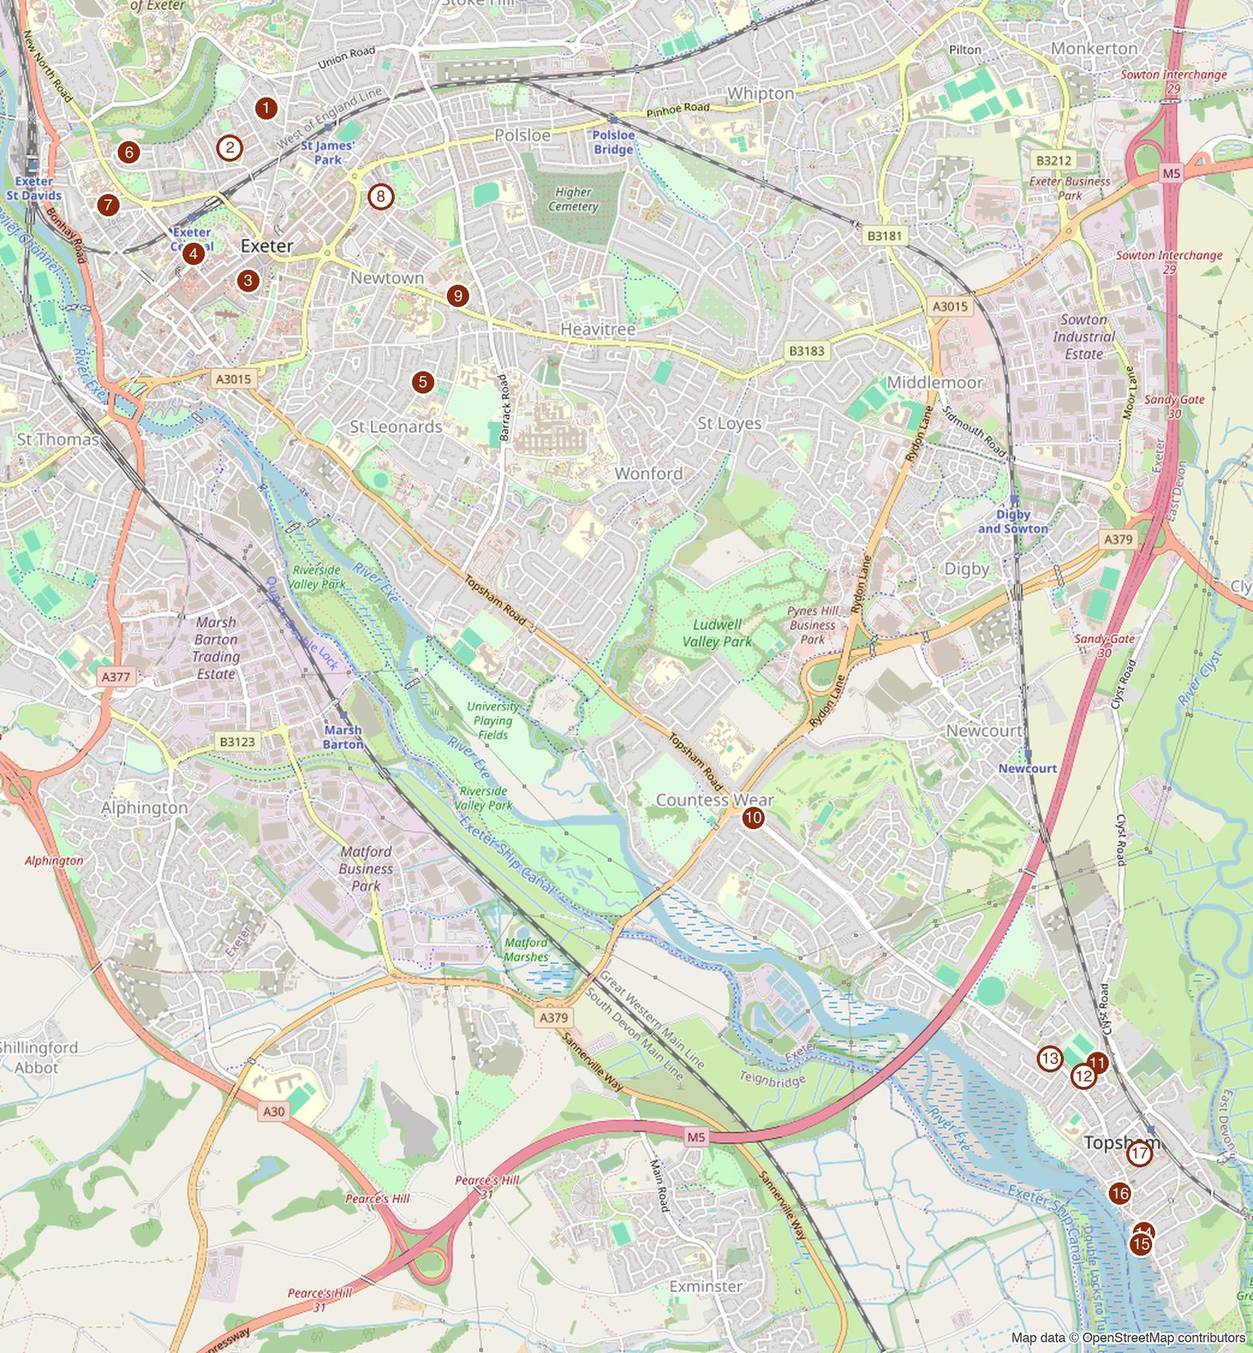
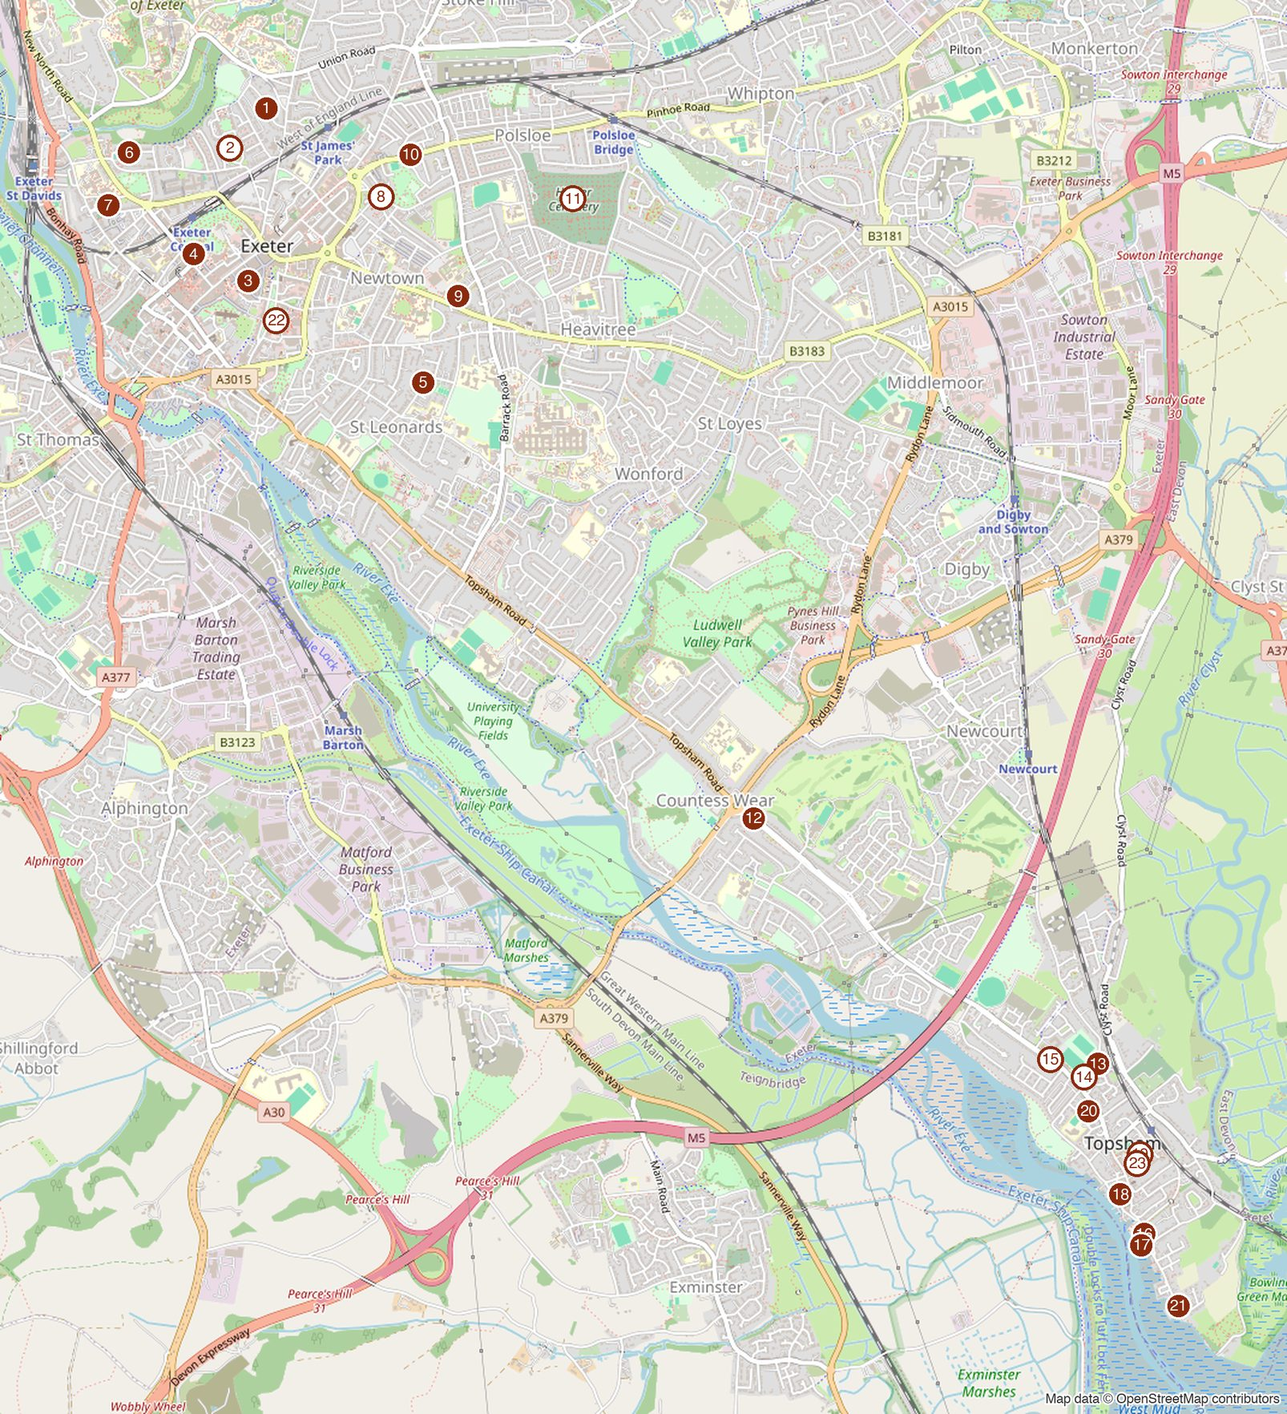
Map: make all places public; add Exeter Benefit Building Society and Topsham First School

diff --git a/quartz/static/maps/exeter-topsham.html b/quartz/static/maps/exeter-topsham.html
@@ -9,7 +9,7 @@
 .leaflet-popup-content{font-size:14px;line-height:1.4}.leaflet-popup-content h3{margin:0 0 4px;font-size:15px}
 .leaflet-popup-content .when{color:#666;font-size:12px;margin-bottom:6px}.leaflet-popup-content a{color:#8a2b0e}</style>
 </head><body><div id="map"></div><script>
-const places = [{"n": 1, "lat": 50.7318, "lon": -3.5269, "approx": false, "name": "Tresillian, West Avenue", "area": "Exeter", "years": "1899–c.1950", "text": "The Silver family home: Clifford and Gladys brought up their children here. Shot up in the Exeter Blitz, May 1942, and still standing.", "links": "<a href=\"../../Clifford-Marking-Silver/#tresillian\" target=\"_top\">Clifford Marking Silver</a> · <a href=\"../../David-Silver/#tresillian-and-the-exeter-blitz\" target=\"_top\">David Silver</a>"}, {"n": 2, "lat": 50.73, "lon": -3.5295, "approx": true, "name": "Higher Barracks", "area": "Exeter", "years": "1942", "text": "\"Part of the barracks, full of the army, about 300 yards away from our house\" was destroyed in an air raid David watched as a warden in 1942.", "links": "<a href=\"../../WWII-Interview\" target=\"_top\">David's WWII tape</a>"}, {"n": 3, "lat": 50.724, "lon": -3.5282, "approx": false, "name": "Bedford Circus", "area": "Exeter", "years": "c.1906–1942", "text": "Clifford's dental surgery stood here \"until 1942\". The Georgian circus was gutted in the Blitz and later demolished; Princesshay now covers the site.", "links": "<a href=\"../../Clifford-Marking-Silver/#the-dental-practice\" target=\"_top\">Clifford Marking Silver</a>"}, {"n": 4, "lat": 50.7252, "lon": -3.5321, "approx": false, "name": "Exeter School of Art (Royal Albert Memorial Museum building)", "area": "Exeter", "years": "1942–43", "text": "David spent about two terms at the Exeter School of Art before joining the RAF.", "links": "<a href=\"../../David-Silver/#exeter-and-the-war\" target=\"_top\">David Silver</a>"}, {"n": 5, "lat": 50.7194, "lon": -3.5157, "approx": false, "name": "Mona Lodge, Lyndhurst Road", "area": "Exeter (St Leonards)", "years": "c.1900–1921", "text": "Rupert Philip Acott's house, with lions on the gateposts, and Gladys's childhood home. Muriel Acott was married from here. Still standing.", "links": "<a href=\"../../Acott-Family/#rupert-philip-acott-18531941-and-charlotte-rowell\" target=\"_top\">The Acott Family</a> · <a href=\"../../Gladys-Silver/\" target=\"_top\">Gladys Silver</a>"}, {"n": 6, "lat": 50.7298, "lon": -3.5367, "approx": false, "name": "Velwell Road, St David's", "area": "Exeter", "years": "c.1951–1960s", "text": "Clifford and Gladys's home after Tresillian. David saved the family photographs from here \"when my mother died\".", "links": "<a href=\"../../Clifford-Marking-Silver/\" target=\"_top\">Clifford Marking Silver</a> · <a href=\"../../Bristol-Letters\" target=\"_top\">Letters from Bristol</a>"}, {"n": 7, "lat": 50.7274, "lon": -3.5382, "approx": false, "name": "St David's Church", "area": "Exeter", "years": "1952", "text": "David Silver and Anthea Leigh were married in a side chapel here at the end of December 1952, with James as best man.", "links": "<a href=\"../../Bristol-Letters\" target=\"_top\">Letters from Bristol</a> · <a href=\"../../David-Silver/\" target=\"_top\">David Silver</a> · <a href=\"../../Anthea-Silver/\" target=\"_top\">Anthea Silver</a>"}, {"n": 8, "lat": 50.7278, "lon": -3.5187, "approx": true, "name": "The Belmont Nursing Home", "area": "Exeter", "years": "1925, 1928", "text": "Anthea Leigh was born here on 30 April 1928, in \"a beautiful Georgian terrace in Exeter, later destroyed in the blitz\". Position approximate.", "links": "<a href=\"../../A-Topsham-Childhood\" target=\"_top\">A Topsham Childhood</a>"}, {"n": 9, "lat": 50.7233, "lon": -3.5132, "approx": false, "name": "Endsleigh School, Grendon Road", "area": "Exeter", "years": "c.1937–1939", "text": "\"A girls only day school on the corner of Grendon Road\", where Anthea and her sister Mary went until the daylight raids on Exeter.", "links": "<a href=\"../../A-Topsham-Childhood\" target=\"_top\">A Topsham Childhood</a>"}, {"n": 10, "lat": 50.6997, "lon": -3.4921, "approx": false, "name": "Sundew and the garage, Countess Wear", "area": "Countess Wear", "years": "c.1924–1930", "text": "Tom and Edith Leigh's bungalow and garage on the Countess Wear crossroads, where Anthea was brought home as a baby.", "links": "<a href=\"../../A-Topsham-Childhood\" target=\"_top\">A Topsham Childhood</a>"}, {"n": 11, "lat": 50.6886, "lon": -3.4675, "approx": false, "name": "Denver House and Denver Nurseries, Denver Road", "area": "Topsham", "years": "c.1901–1940s", "text": "Thomas Bolt Pyne's house and fruit-tree nursery, employing about thirty men: Anthea's grandparents' home, \"big, comfortable and secure\".", "links": "<a href=\"../../A-Topsham-Childhood\" target=\"_top\">A Topsham Childhood</a>"}, {"n": 12, "lat": 50.688, "lon": -3.4685, "approx": true, "name": "Meadow Hayes", "area": "Topsham", "years": "1935–1946", "text": "Anthea's childhood home, in the meadow opposite Denver Nurseries, until the family left in 1946. \"I still dream about Meadow Hayes.\"", "links": "<a href=\"../../A-Topsham-Childhood\" target=\"_top\">A Topsham Childhood</a>"}, {"n": 13, "lat": 50.6888, "lon": -3.4709, "approx": true, "name": "Park Field, by the Exeter Road", "area": "Topsham", "years": "1934–35", "text": "A sewer trench cut through Park Field, opposite the Pyne nurseries, turned up Romano-British pottery, coins and glass.", "links": "<a href=\"../../Denver-Excavation\" target=\"_top\">Romano-British Antiquities</a>"}, {"n": 14, "lat": 50.6809, "lon": -3.4642, "approx": false, "name": "\"Doone\", Monmouth Hill", "area": "Topsham", "years": "c.1932–1935", "text": "The Leighs' semi-detached house with a long front garden, where Anthea's sister Gillian was born.", "links": "<a href=\"../../A-Topsham-Childhood\" target=\"_top\">A Topsham Childhood</a>"}, {"n": 15, "lat": 50.6804, "lon": -3.4644, "approx": false, "name": "The Strand", "area": "Topsham", "years": "1930s", "text": "Anthea's father worked at Mr Seldon's garage on the Strand, and her godmother Peggy Dolling lived here.", "links": "<a href=\"../../A-Topsham-Childhood\" target=\"_top\">A Topsham Childhood</a>"}, {"n": 16, "lat": 50.6827, "lon": -3.4659, "approx": false, "name": "St Margaret's Church", "area": "Topsham", "years": "1930s–40s", "text": "\"The church was the centre of the community\": Anthea sang in the choir here for years.", "links": "<a href=\"../../A-Topsham-Childhood\" target=\"_top\">A Topsham Childhood</a>"}, {"n": 17, "lat": 50.6845, "lon": -3.4645, "approx": true, "name": "Rosapenna", "area": "Topsham", "years": "1921–1941", "text": "Rupert Philip Acott moved to Rosapenna in Topsham after his wife died, and lived there until his death in 1941. Exact location not yet found.", "links": "<a href=\"../../Acott-Family/#rupert-philip-acott-18531941-and-charlotte-rowell\" target=\"_top\">The Acott Family</a>"}];
+const places = [{"n": 1, "lat": 50.7318, "lon": -3.5269, "approx": false, "name": "Tresillian, West Avenue", "area": "Exeter", "years": "1899–c.1950", "text": "The Silver family home: Clifford and Gladys brought up their children here. Shot up in the Exeter Blitz, May 1942, and still standing.", "links": "<a href=\"../../Clifford-Marking-Silver/#tresillian\" target=\"_top\">Clifford Marking Silver</a> · <a href=\"../../David-Silver/#tresillian-and-the-exeter-blitz\" target=\"_top\">David Silver</a>"}, {"n": 2, "lat": 50.73, "lon": -3.5295, "approx": true, "name": "Higher Barracks", "area": "Exeter", "years": "1942", "text": "\"Part of the barracks, full of the army, about 300 yards away from our house\" was destroyed in an air raid David watched as a warden in 1942.", "links": "<a href=\"../../WWII-Interview\" target=\"_top\">David's WWII tape</a>"}, {"n": 3, "lat": 50.724, "lon": -3.5282, "approx": false, "name": "Bedford Circus", "area": "Exeter", "years": "c.1906–1942", "text": "Clifford's dental surgery stood here \"until 1942\". The Georgian circus was gutted in the Blitz and later demolished; Princesshay now covers the site.", "links": "<a href=\"../../Clifford-Marking-Silver/#the-dental-practice\" target=\"_top\">Clifford Marking Silver</a>"}, {"n": 4, "lat": 50.7252, "lon": -3.5321, "approx": false, "name": "Exeter School of Art (Royal Albert Memorial Museum building)", "area": "Exeter", "years": "1942–43", "text": "David spent about two terms at the Exeter School of Art before joining the RAF.", "links": "<a href=\"../../David-Silver/#exeter-and-the-war\" target=\"_top\">David Silver</a>"}, {"n": 5, "lat": 50.7194, "lon": -3.5157, "approx": false, "name": "Mona Lodge, Lyndhurst Road", "area": "Exeter (St Leonards)", "years": "c.1900–1921", "text": "Rupert Philip Acott's house, with lions on the gateposts, and Gladys's childhood home. Muriel Acott was married from here. Still standing.", "links": "<a href=\"../../Acott-Family/#rupert-philip-acott-18531941-and-charlotte-rowell\" target=\"_top\">The Acott Family</a> · <a href=\"../../Gladys-Silver/\" target=\"_top\">Gladys Silver</a>"}, {"n": 6, "lat": 50.7298, "lon": -3.5367, "approx": false, "name": "Velwell Road, St David's", "area": "Exeter", "years": "c.1951–1960s", "text": "Clifford and Gladys's home after Tresillian. David saved the family photographs from here \"when my mother died\".", "links": "<a href=\"../../Clifford-Marking-Silver/\" target=\"_top\">Clifford Marking Silver</a> · <a href=\"../../Bristol-Letters\" target=\"_top\">Letters from Bristol</a>"}, {"n": 7, "lat": 50.7274, "lon": -3.5382, "approx": false, "name": "St David's Church", "area": "Exeter", "years": "1952", "text": "David Silver and Anthea Leigh were married in a side chapel here at the end of December 1952, with James as best man.", "links": "<a href=\"../../Bristol-Letters\" target=\"_top\">Letters from Bristol</a> · <a href=\"../../David-Silver/\" target=\"_top\">David Silver</a> · <a href=\"../../Anthea-Silver/\" target=\"_top\">Anthea Silver</a>"}, {"n": 8, "lat": 50.7278, "lon": -3.5187, "approx": true, "name": "The Belmont Nursing Home", "area": "Exeter", "years": "1925, 1928", "text": "Anthea Leigh was born here on 30 April 1928, in \"a beautiful Georgian terrace in Exeter, later destroyed in the blitz\". Position approximate.", "links": "<a href=\"../../A-Topsham-Childhood\" target=\"_top\">A Topsham Childhood</a>"}, {"n": 9, "lat": 50.7233, "lon": -3.5132, "approx": false, "name": "Endsleigh School, Grendon Road", "area": "Exeter", "years": "c.1937–1939", "text": "\"A girls only day school on the corner of Grendon Road\", where Anthea and her sister Mary went until the daylight raids on Exeter.", "links": "<a href=\"../../A-Topsham-Childhood\" target=\"_top\">A Topsham Childhood</a>"}, {"n": 10, "lat": 50.7297, "lon": -3.5166, "approx": false, "name": "Alexandra Terrace, Blackboy Road", "area": "Exeter", "years": "1960", "text": "Anthea wrote to David from Alexandra Terrace in July 1960, with Tamsin, Bridget and Candy at home.", "links": ""}, {"n": 11, "lat": 50.7277, "lon": -3.505, "approx": true, "name": "Exeter Higher Cemetery", "area": "Exeter", "years": "1921?", "text": "David believed his grandmother Charlotte Acott was \"buried in Exeter Cemetery\". Which cemetery isn't certain. Position approximate.", "links": ""}, {"n": 12, "lat": 50.6997, "lon": -3.4921, "approx": false, "name": "Sundew and the garage, Countess Wear", "area": "Countess Wear", "years": "c.1924–1930", "text": "Tom and Edith Leigh's bungalow and garage on the Countess Wear crossroads, where Anthea was brought home as a baby.", "links": "<a href=\"../../A-Topsham-Childhood\" target=\"_top\">A Topsham Childhood</a>"}, {"n": 13, "lat": 50.6886, "lon": -3.4675, "approx": false, "name": "Denver House and Denver Nurseries, Denver Road", "area": "Topsham", "years": "c.1901–1940s", "text": "Thomas Bolt Pyne's house and fruit-tree nursery, employing about thirty men: Anthea's grandparents' home, \"big, comfortable and secure\".", "links": "<a href=\"../../A-Topsham-Childhood\" target=\"_top\">A Topsham Childhood</a>"}, {"n": 14, "lat": 50.688, "lon": -3.4685, "approx": true, "name": "Meadow Hayes", "area": "Topsham", "years": "1935–1946", "text": "Anthea's childhood home, in the meadow opposite Denver Nurseries, until the family left in 1946. \"I still dream about Meadow Hayes.\"", "links": "<a href=\"../../A-Topsham-Childhood\" target=\"_top\">A Topsham Childhood</a>"}, {"n": 15, "lat": 50.6888, "lon": -3.4709, "approx": true, "name": "Park Field, by the Exeter Road", "area": "Topsham", "years": "1934–35", "text": "A sewer trench cut through Park Field, opposite the Pyne nurseries, turned up Romano-British pottery, coins and glass.", "links": "<a href=\"../../Denver-Excavation\" target=\"_top\">Romano-British Antiquities</a>"}, {"n": 16, "lat": 50.6809, "lon": -3.4642, "approx": false, "name": "\"Doone\", Monmouth Hill", "area": "Topsham", "years": "c.1932–1935", "text": "The Leighs' semi-detached house with a long front garden, where Anthea's sister Gillian was born.", "links": "<a href=\"../../A-Topsham-Childhood\" target=\"_top\">A Topsham Childhood</a>"}, {"n": 17, "lat": 50.6804, "lon": -3.4644, "approx": false, "name": "The Strand", "area": "Topsham", "years": "1930s", "text": "Anthea's father worked at Mr Seldon's garage on the Strand, and her godmother Peggy Dolling lived here.", "links": "<a href=\"../../A-Topsham-Childhood\" target=\"_top\">A Topsham Childhood</a>"}, {"n": 18, "lat": 50.6827, "lon": -3.4659, "approx": false, "name": "St Margaret's Church", "area": "Topsham", "years": "1930s–40s", "text": "\"The church was the centre of the community\": Anthea sang in the choir here for years.", "links": "<a href=\"../../A-Topsham-Childhood\" target=\"_top\">A Topsham Childhood</a>"}, {"n": 19, "lat": 50.6845, "lon": -3.4645, "approx": true, "name": "Rosapenna", "area": "Topsham", "years": "1921–1941", "text": "Rupert Philip Acott moved to Rosapenna in Topsham after his wife died, and lived there until his death in 1941. Exact location not yet found.", "links": "<a href=\"../../Acott-Family/#rupert-philip-acott-18531941-and-charlotte-rowell\" target=\"_top\">The Acott Family</a>"}, {"n": 20, "lat": 50.686461, "lon": -3.468176, "approx": false, "name": "Jenin Cottage", "area": "Topsham", "years": "?–c.1984", "text": "David and Anthea Silver's home in Topsham until they moved to Westleigh, Wadebridge, in about 1984. A former pigsty in the garden was Andy Titcomb's first workshop, where he made his first teapot in 1983.", "links": "<a href=\"../../David-Silver/\" target=\"_top\">David Silver</a> · <a href=\"../../Anthea-Silver/\" target=\"_top\">Anthea Silver</a>"}, {"n": 21, "lat": 50.677648, "lon": -3.46175, "approx": false, "name": "Reka Dom, The Strand (Flats A and B)", "area": "Topsham", "years": "c.1975–1990", "text": "Andy and Tamsin Titcomb rented two flats in this old merchant's house: first Flat A, then Flat B, where Jago grew up, until the family moved to Cornwall in October 1990.", "links": "<a href=\"../../Jago-Silver/\" target=\"_top\">Jago Silver</a>"}, {"n": 22, "lat": 50.7222, "lon": -3.5262, "approx": true, "name": "Exeter Benefit Building Society, Southernhay", "area": "Exeter", "years": "c.1950", "text": "David photographed this Georgian terrace front, then the Exeter Benefit Building Society's office, and drew it for his architecture course. The drawing survives in the family. Probably on Southernhay; position approximate.", "links": "<a href=\"../../David-Silver/\" target=\"_top\">David Silver</a> · <a href=\"../../Bristol-Letters\" target=\"_top\">Letters from Bristol</a>"}, {"n": 23, "lat": 50.6841, "lon": -3.4647, "approx": true, "name": "Topsham First School", "area": "Topsham", "years": "1984–1988", "text": "Jago's first school, 1984–88. His grandmother Anthea, an architecture graduate, was involved in its design in some way. Shown at the listed Topsham Infant School on Majorfield Road; the exact site isn't confirmed.", "links": "<a href=\"../../Anthea-Silver/\" target=\"_top\">Anthea Silver</a>"}];
 const map = L.map('map', {scrollWheelZoom: false});
 L.tileLayer('https://tile.openstreetmap.org/{z}/{x}/{y}.png', {maxZoom: 19,
   attribution: '&copy; <a href="https://www.openstreetmap.org/copyright" target="_blank">OpenStreetMap</a> contributors'}).addTo(map);

diff --git a/content/Places/Exeter-and-Topsham-Map.md b/content/Places/Exeter-and-Topsham-Map.md
@@ -27,14 +27,20 @@ Every place in Exeter and Topsham that appears in these pages, from the Acotts' 
 | 7 | **St David's Church**, Exeter | 1952 | David Silver and Anthea Leigh were married in a side chapel here at the end of December 1952, with James as best man. | [Letters from Bristol](Bristol-Letters), [David Silver](David-Silver/), [Anthea Silver](Anthea-Silver/) |
 | 8 | **The Belmont Nursing Home *(approx.)***, Exeter | 1925, 1928 | Anthea Leigh was born here on 30 April 1928, in "a beautiful Georgian terrace in Exeter, later destroyed in the blitz". Position approximate. | [A Topsham Childhood](A-Topsham-Childhood) |
 | 9 | **Endsleigh School, Grendon Road**, Exeter | c.1937–1939 | "A girls only day school on the corner of Grendon Road", where Anthea and her sister Mary went until the daylight raids on Exeter. | [A Topsham Childhood](A-Topsham-Childhood) |
-| 10 | **Sundew and the garage, Countess Wear**, Countess Wear | c.1924–1930 | Tom and Edith Leigh's bungalow and garage on the Countess Wear crossroads, where Anthea was brought home as a baby. | [A Topsham Childhood](A-Topsham-Childhood) |
-| 11 | **Denver House and Denver Nurseries, Denver Road**, Topsham | c.1901–1940s | Thomas Bolt Pyne's house and fruit-tree nursery, employing about thirty men: Anthea's grandparents' home, "big, comfortable and secure". | [A Topsham Childhood](A-Topsham-Childhood) |
-| 12 | **Meadow Hayes *(approx.)***, Topsham | 1935–1946 | Anthea's childhood home, in the meadow opposite Denver Nurseries, until the family left in 1946. "I still dream about Meadow Hayes." | [A Topsham Childhood](A-Topsham-Childhood) |
-| 13 | **Park Field, by the Exeter Road *(approx.)***, Topsham | 1934–35 | A sewer trench cut through Park Field, opposite the Pyne nurseries, turned up Romano-British pottery, coins and glass. | [Romano-British Antiquities](Denver-Excavation) |
-| 14 | **"Doone", Monmouth Hill**, Topsham | c.1932–1935 | The Leighs' semi-detached house with a long front garden, where Anthea's sister Gillian was born. | [A Topsham Childhood](A-Topsham-Childhood) |
-| 15 | **The Strand**, Topsham | 1930s | Anthea's father worked at Mr Seldon's garage on the Strand, and her godmother Peggy Dolling lived here. | [A Topsham Childhood](A-Topsham-Childhood) |
-| 16 | **St Margaret's Church**, Topsham | 1930s–40s | "The church was the centre of the community": Anthea sang in the choir here for years. | [A Topsham Childhood](A-Topsham-Childhood) |
-| 17 | **Rosapenna *(approx.)***, Topsham | 1921–1941 | Rupert Philip Acott moved to Rosapenna in Topsham after his wife died, and lived there until his death in 1941. Exact location not yet found. | [The Acott Family](Acott-Family/#rupert-philip-acott-18531941-and-charlotte-rowell) |
+| 10 | **Alexandra Terrace, Blackboy Road**, Exeter | 1960 | Anthea wrote to David from Alexandra Terrace in July 1960, with Tamsin, Bridget and Candy at home. |  |
+| 11 | **Exeter Higher Cemetery *(approx.)***, Exeter | 1921? | David believed his grandmother Charlotte Acott was "buried in Exeter Cemetery". Which cemetery isn't certain. Position approximate. |  |
+| 12 | **Sundew and the garage, Countess Wear**, Countess Wear | c.1924–1930 | Tom and Edith Leigh's bungalow and garage on the Countess Wear crossroads, where Anthea was brought home as a baby. | [A Topsham Childhood](A-Topsham-Childhood) |
+| 13 | **Denver House and Denver Nurseries, Denver Road**, Topsham | c.1901–1940s | Thomas Bolt Pyne's house and fruit-tree nursery, employing about thirty men: Anthea's grandparents' home, "big, comfortable and secure". | [A Topsham Childhood](A-Topsham-Childhood) |
+| 14 | **Meadow Hayes *(approx.)***, Topsham | 1935–1946 | Anthea's childhood home, in the meadow opposite Denver Nurseries, until the family left in 1946. "I still dream about Meadow Hayes." | [A Topsham Childhood](A-Topsham-Childhood) |
+| 15 | **Park Field, by the Exeter Road *(approx.)***, Topsham | 1934–35 | A sewer trench cut through Park Field, opposite the Pyne nurseries, turned up Romano-British pottery, coins and glass. | [Romano-British Antiquities](Denver-Excavation) |
+| 16 | **"Doone", Monmouth Hill**, Topsham | c.1932–1935 | The Leighs' semi-detached house with a long front garden, where Anthea's sister Gillian was born. | [A Topsham Childhood](A-Topsham-Childhood) |
+| 17 | **The Strand**, Topsham | 1930s | Anthea's father worked at Mr Seldon's garage on the Strand, and her godmother Peggy Dolling lived here. | [A Topsham Childhood](A-Topsham-Childhood) |
+| 18 | **St Margaret's Church**, Topsham | 1930s–40s | "The church was the centre of the community": Anthea sang in the choir here for years. | [A Topsham Childhood](A-Topsham-Childhood) |
+| 19 | **Rosapenna *(approx.)***, Topsham | 1921–1941 | Rupert Philip Acott moved to Rosapenna in Topsham after his wife died, and lived there until his death in 1941. Exact location not yet found. | [The Acott Family](Acott-Family/#rupert-philip-acott-18531941-and-charlotte-rowell) |
+| 20 | **Jenin Cottage**, Topsham | ?–c.1984 | David and Anthea Silver's home in Topsham until they moved to Westleigh, Wadebridge, in about 1984. A former pigsty in the garden was Andy Titcomb's first workshop, where he made his first teapot in 1983. | [David Silver](David-Silver/), [Anthea Silver](Anthea-Silver/) |
+| 21 | **Reka Dom, The Strand (Flats A and B)**, Topsham | c.1975–1990 | Andy and Tamsin Titcomb rented two flats in this old merchant's house: first Flat A, then Flat B, where Jago grew up, until the family moved to Cornwall in October 1990. | [Jago Silver](Jago-Silver/) |
+| 22 | **Exeter Benefit Building Society, Southernhay *(approx.)***, Exeter | c.1950 | David photographed this Georgian terrace front, then the Exeter Benefit Building Society's office, and drew it for his architecture course. The drawing survives in the family. Probably on Southernhay; position approximate. | [David Silver](David-Silver/), [Letters from Bristol](Bristol-Letters) |
+| 23 | **Topsham First School *(approx.)***, Topsham | 1984–1988 | Jago's first school, 1984–88. His grandmother Anthea, an architecture graduate, was involved in its design in some way. Shown at the listed Topsham Infant School on Majorfield Road; the exact site isn't confirmed. | [Anthea Silver](Anthea-Silver/) |
 
 ![Static map of the same places, numbered as in the table above.](../images/Exeter-Topsham-map.jpg)
 

diff --git a/content/Jago-Silver/index.md b/content/Jago-Silver/index.md
@@ -8,6 +8,8 @@ tags:
 
 *← [Silver Family Archive](./)*
 
+*Places on this page are on the [Exeter and Topsham map](Places/Exeter-and-Topsham-Map).*
+
 **Jago Silver**, who wrote under his childhood name **Jago Titcomb** until the early 2000s, is an illustrator and the compiler of this archive. He is the grandson of [David](David-Silver/) and [Anthea Silver](Anthea-Silver/) and the great-nephew of [Christopher Patrick Silver](Christopher-Silver/). He grew up in Devon and Cornwall, studied at Wadebridge School and Truro College, and took a double first in BA (Hons) Illustration at Falmouth.
 
 ---
